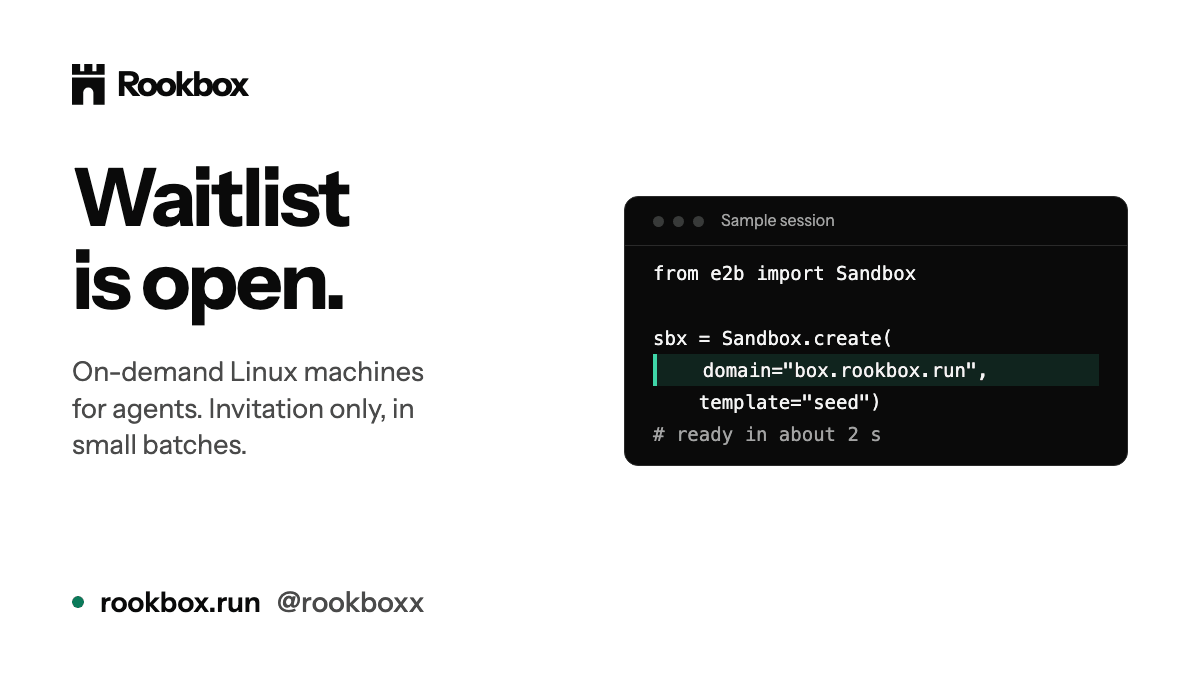
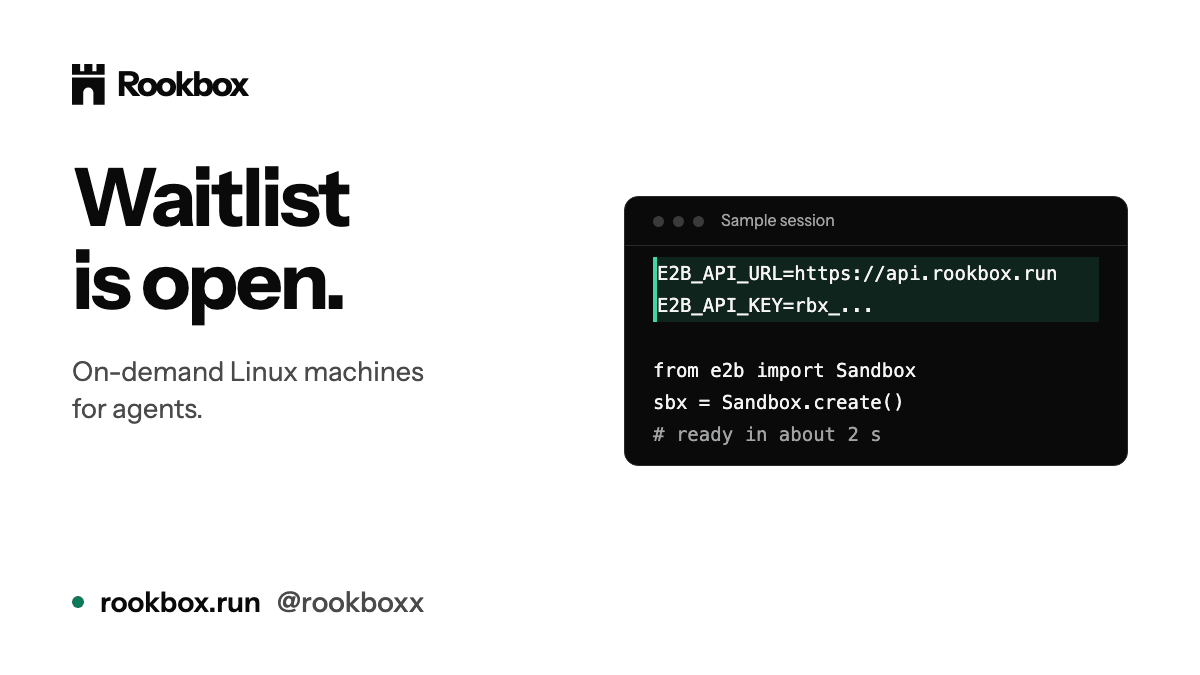
fix(brand): show the unmodified E2B SDK setup and drop invitation-only wording
Images and copy now use E2B_API_KEY and E2B_API_URL with a plain
Sandbox.create(), matching apps/web/src/lib/snippets.ts.

Changed region(s): [[0.5242, 0.3733, 0.925, 0.6222], [0.1542, 0.5911, 0.3392, 0.6222], [0.0617, 0.6533, 0.2158, 0.6844]]

diff --git a/product/brand/x/README.md b/product/brand/x/README.md
@@ -34,9 +34,9 @@ and is still readable at 48 px.
 ## Claims the images make
 
 Only what the site already says: Firecracker microVM with its own kernel, about 2 s to start,
-about 1 s to resume, E2B SDK compatible, invitation-only waitlist, billing per second with prices
+about 1 s to resume, E2B SDK compatible (unmodified SDK, two env vars), waitlist, billing per second with prices
 not published. The code is real E2B SDK usage (`Sandbox.create`, `commands.run`, `pause`,
-`Sandbox.connect`) against `box.rookbox.run`. Pix billing is **not live**; the Pix image says
+`Sandbox.connect`) with `E2B_API_KEY` and `E2B_API_URL=https://api.rookbox.run`, as in `apps/web/src/lib/snippets.ts`. Pix billing is **not live**; the Pix image says
 "Previsto. Ainda não está no ar." Update or drop that image before billing changes.
 
 ## Bio (max 160 characters)
@@ -62,9 +62,7 @@ Portuguese (attach `launch-pt.png`):
 ```
 A lista de espera do Rookbox está aberta.
 
-Máquinas Linux sob demanda para agentes. Cada uma é uma microVM Firecracker com kernel próprio, inicia em cerca de 2 s e funciona com o SDK da E2B: você muda uma linha.
-
-O acesso é só por convite, em lotes pequenos.
+Máquinas Linux sob demanda para agentes. Cada uma é uma microVM Firecracker com kernel próprio, inicia em cerca de 2 s e funciona com o SDK da E2B: basta trocar duas variáveis de ambiente.
 
 rookbox.run
 ```
@@ -74,15 +72,13 @@ English (attach `launch-en.png`):
 ```
 The Rookbox waitlist is open.
 
-On-demand Linux machines for agents. Each one is a Firecracker microVM with its own kernel, starts in about 2 s and works with the E2B SDK: you change one line.
-
-Access is by invitation, in small batches.
+On-demand Linux machines for agents. Each one is a Firecracker microVM with its own kernel, starts in about 2 s and works with the E2B SDK: you only change two environment variables.
 
 rookbox.run
 ```
 
 Thread for the carousel (pt, one slide per post): 1 "Um computador para cada agente." 2 "Crie,
-rode, suspenda, retome." 3 "Mude uma linha." 4 "Entre na lista de espera: rookbox.run".
+rode, suspenda, retome." 3 "Troque duas variáveis." 4 "Entre na lista de espera: rookbox.run".
 
 Pix post (pt, attach `launch-pt-pix.png`):
 
@@ -98,12 +94,12 @@ Keep these when posting; X allows 1000 characters.
 
 - `avatar.png`: Castle tower mark of Rookbox in black on a white background.
 - `avatar-dark.png`: Castle tower mark of Rookbox in white on a near-black background.
-- `banner-pt.png`: Fundo preto com o título "Dê a cada agente o próprio computador.", o perfil @rookboxx e rookbox.run, ao lado de um terminal com código Python do SDK da E2B criando uma máquina com domain="box.rookbox.run".
-- `banner-en.png`: Black background with the headline "Give every agent its own computer.", the handle @rookboxx and rookbox.run, next to a terminal showing Python E2B SDK code creating a machine with domain="box.rookbox.run".
-- `launch-pt.png`: Logo do Rookbox e o título "Lista de espera aberta.", com o texto "Máquinas Linux sob demanda para agentes. Acesso por convite, em lotes pequenos.", rookbox.run e @rookboxx. À direita, um terminal com código Python do SDK da E2B criando uma máquina, com a linha domain="box.rookbox.run" destacada.
-- `launch-en.png`: Rookbox logo and the headline "Waitlist is open.", with the text "On-demand Linux machines for agents. Invitation only, in small batches.", rookbox.run and @rookboxx. On the right, a terminal with Python E2B SDK code creating a machine, the line domain="box.rookbox.run" highlighted.
+- `banner-pt.png`: Fundo preto com o título "Dê a cada agente o próprio computador.", o perfil @rookboxx e rookbox.run, ao lado de um terminal com código Python do SDK da E2B criando uma máquina com E2B_API_URL=https://api.rookbox.run.
+- `banner-en.png`: Black background with the headline "Give every agent its own computer.", the handle @rookboxx and rookbox.run, next to a terminal showing Python E2B SDK code creating a machine with E2B_API_URL=https://api.rookbox.run.
+- `launch-pt.png`: Logo do Rookbox e o título "Lista de espera aberta.", com o texto "Máquinas Linux sob demanda para agentes.", rookbox.run e @rookboxx. À direita, um terminal com código Python do SDK da E2B criando uma máquina, com as variáveis E2B_API_URL e E2B_API_KEY destacadas.
+- `launch-en.png`: Rookbox logo and the headline "Waitlist is open.", with the text "On-demand Linux machines for agents.", rookbox.run and @rookboxx. On the right, a terminal with Python E2B SDK code creating a machine, the E2B_API_URL and E2B_API_KEY variables highlighted.
 - `launch-pt-pix.png`: Fundo preto com o título "Pague em reais, com Pix." e a etiqueta tracejada "Previsto. Ainda não está no ar.". Texto: "Previsto para a cobrança, que será por segundo. Os preços ainda não foram publicados." Abaixo, uma fileira de traços representando segundos, de "a máquina inicia" a "a máquina suspende".
 - `carousel-1.png`: Slide 1 de 4. Título "Um computador para cada agente." Texto: máquinas Linux sob demanda, cada uma uma microVM Firecracker, não um contêiner compartilhado. Lista: kernel próprio, inicia em cerca de 2 s, retoma em cerca de 1 s.
-- `carousel-2.png`: Slide 2 de 4. Título "Crie, rode, suspenda, retome." Um terminal com código Python: Sandbox.create com template "seed", commands.run("uname -sr") que devolve Linux, sbx.pause() e Sandbox.connect(sbx.sandbox_id), com comentários sobre iniciar em cerca de 2 s e retomar em cerca de 1 s.
-- `carousel-3.png`: Slide 3 de 4. Título "Mude uma linha." Dois terminais, "Antes" e "Com o Rookbox". O segundo tem a mesma chamada Sandbox.create com uma linha a mais, destacada: domain="box.rookbox.run".
-- `carousel-4.png`: Slide 4 de 4, fundo preto. Título "Entre na lista de espera." Texto: o acesso é só por convite, em lotes pequenos. Endereço rookbox.run em verde e a frase "Deixe seu email no site."
+- `carousel-2.png`: Slide 2 de 4. Título "Crie, rode, suspenda, retome." Um terminal com código Python: Sandbox.create(), commands.run("uname -sr") que devolve Linux, sbx.pause() e Sandbox.connect(sbx.sandbox_id), com comentários sobre iniciar em cerca de 2 s e retomar em cerca de 1 s.
+- `carousel-3.png`: Slide 3 de 4. Título "Troque duas variáveis." Texto: com o SDK da E2B o código continua igual, só mudam duas variáveis de ambiente. Dois terminais: um com E2B_API_KEY=rbx_... e E2B_API_URL=https://api.rookbox.run, outro com o código sem mudanças, Sandbox.create().
+- `carousel-4.png`: Slide 4 de 4, fundo preto. Título "Entre na lista de espera." Texto: liberamos o acesso em lotes pequenos, para as máquinas continuarem rápidas. Endereço rookbox.run em verde e a frase "Deixe seu email no site."
